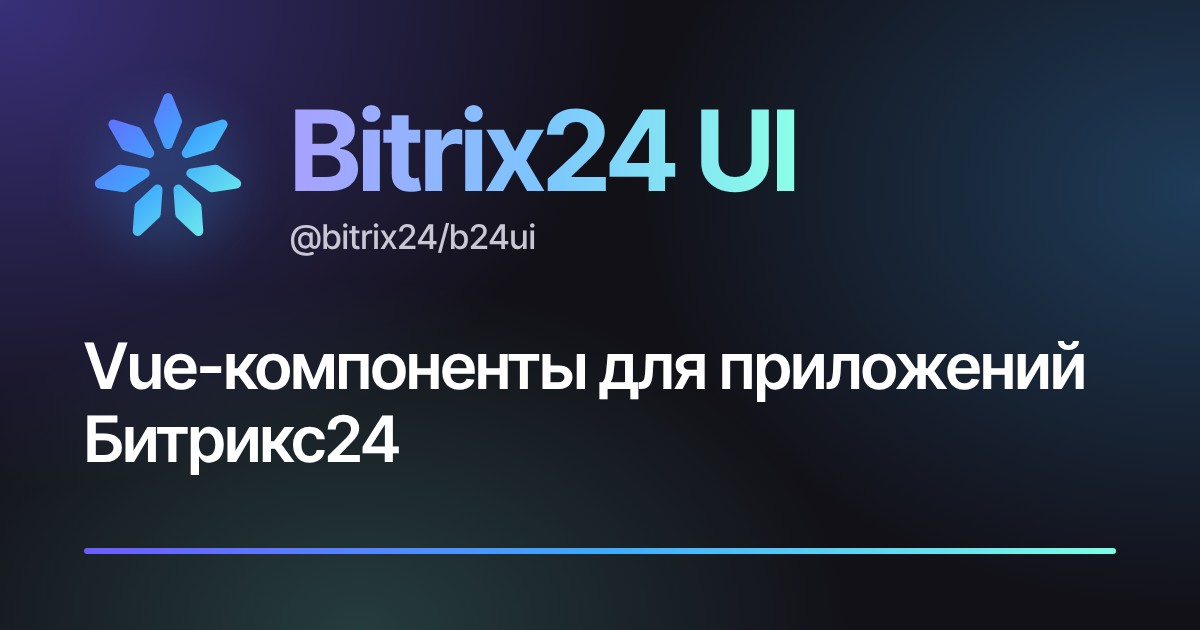
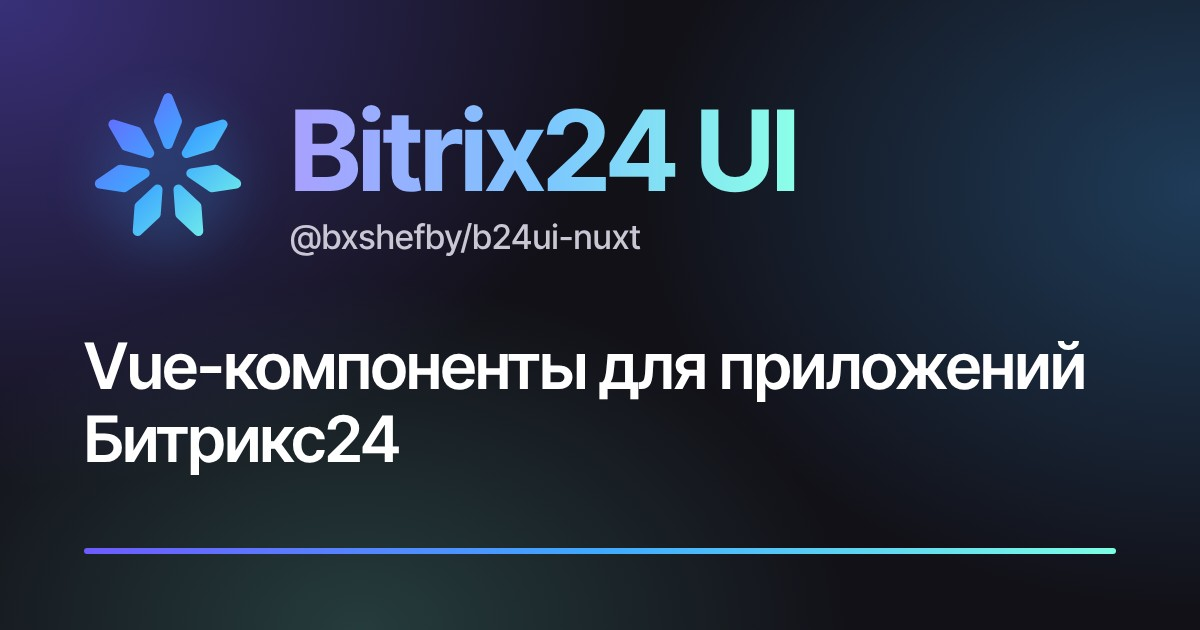
docs(site): на картинке превью — имя пакета @bxshefby/b24ui-nuxt
Claude-Session: https://claude.ai/code/session_01EPnsvLAgVPsBE5uKmn8Xo8

Changed region(s): [[0.2775, 0.3317, 0.555, 0.4222]]

diff --git a/docs/og/og.html b/docs/og/og.html
@@ -25,7 +25,7 @@ body{position:relative;background:#121118;color:#fff;font-family:'Inter Tight',s
   <path fill="url(#g)" d="M8.796,12.068 Q9.097,12.114 9.268,12.365 Q9.432,12.605 9.378,12.89 Q9.324,13.175 9.085,13.338 L6.155,15.338 Q5.927,15.493 5.655,15.452 L2.145,14.922 Q1.845,14.877 1.673,14.626 Q1.509,14.387 1.562,14.102 Q1.615,13.817 1.854,13.653 L4.784,11.643 Q5.013,11.486 5.286,11.528 Z M14.915,13.338 Q14.664,13.167 14.618,12.866 Q14.574,12.58 14.746,12.346 Q14.917,12.112 15.204,12.068 L18.714,11.528 Q18.987,11.486 19.216,11.643 L22.146,13.653 Q22.397,13.825 22.442,14.125 Q22.485,14.412 22.313,14.646 Q22.141,14.879 21.855,14.922 L18.345,15.452 Q18.073,15.493 17.845,15.338 Z M12.651,8.857 Q12.54,9.14 12.257,9.251 Q11.987,9.358 11.721,9.242 Q11.455,9.126 11.349,8.857 L10.049,5.557 Q9.948,5.3 10.049,5.043 L11.349,1.743 Q11.46,1.46 11.743,1.349 Q12.013,1.242 12.279,1.358 Q12.545,1.474 12.651,1.743 L13.951,5.043 Q14.052,5.3 13.951,5.557 Z M10.044,14.547 Q10.268,14.34 10.571,14.362 Q10.86,14.383 11.05,14.603 Q11.239,14.822 11.218,15.111 L10.958,18.651 Q10.938,18.926 10.736,19.113 L8.136,21.523 Q7.912,21.73 7.609,21.708 Q7.32,21.687 7.13,21.467 Q6.941,21.248 6.962,20.959 L7.222,17.419 Q7.242,17.144 7.444,16.957 Z M12.782,15.111 Q12.76,14.808 12.967,14.584 Q13.164,14.371 13.453,14.361 Q13.743,14.35 13.956,14.547 L16.556,16.957 Q16.758,17.144 16.778,17.419 L17.038,20.959 Q17.06,21.262 16.853,21.486 Q16.656,21.699 16.367,21.709 Q16.077,21.72 15.864,21.523 L13.264,19.113 Q13.062,18.926 13.042,18.651 Z M14.865,10.549 Q14.574,10.639 14.31,10.486 Q14.059,10.342 13.984,10.062 Q13.909,9.782 14.054,9.53 L15.824,6.46 Q15.961,6.222 16.225,6.141 L19.615,5.101 Q19.906,5.011 20.17,5.164 Q20.421,5.308 20.496,5.588 Q20.571,5.868 20.426,6.12 L18.656,9.19 Q18.519,9.428 18.255,9.509 Z M9.946,9.53 Q10.099,9.794 10.009,10.085 Q9.924,10.363 9.668,10.498 Q9.412,10.634 9.135,10.549 L5.745,9.509 Q5.481,9.428 5.344,9.19 L3.574,6.12 Q3.421,5.856 3.511,5.565 Q3.596,5.287 3.852,5.152 Q4.108,5.016 4.385,5.101 L7.775,6.141 Q8.039,6.222 8.176,6.46 Z"/>
 </svg>
 <div class="brand">Bitrix24 UI</div>
-<div class="sub">@bitrix24/b24ui</div>
+<div class="sub">@bxshefby/b24ui-nuxt</div>
 <div class="tag">Vue-компоненты для приложений Битрикс24</div>
 <div class="line"></div>
 </body>
